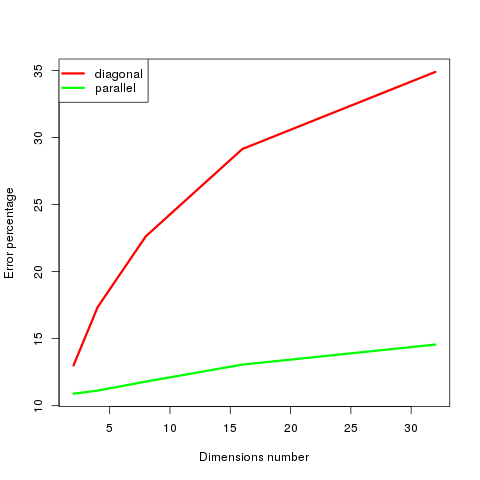
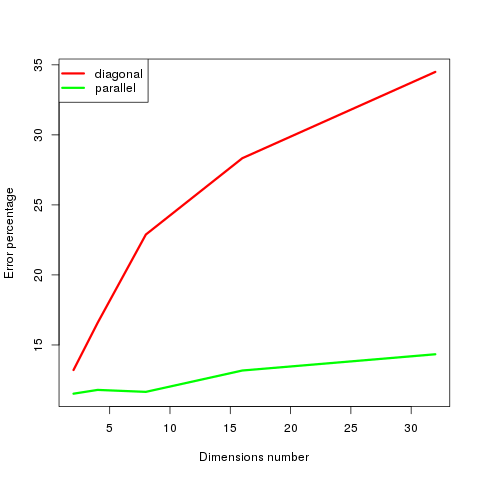
improved generation, added full makefile

diff --git a/gen/random.c b/gen/random.c
@@ -4,8 +4,11 @@
 #include <time.h>
 
 
-void init_random() { srand(time(NULL)); } 
-
+void init_random() { 
+    struct timespec ts;
+    clock_gettime(CLOCK_MONOTONIC, &ts);
+    srand((time_t)ts.tv_nsec); 
+}
 
 double gauss(double x, double mu, double sigma) {
     double var = pow(sigma,  2);
